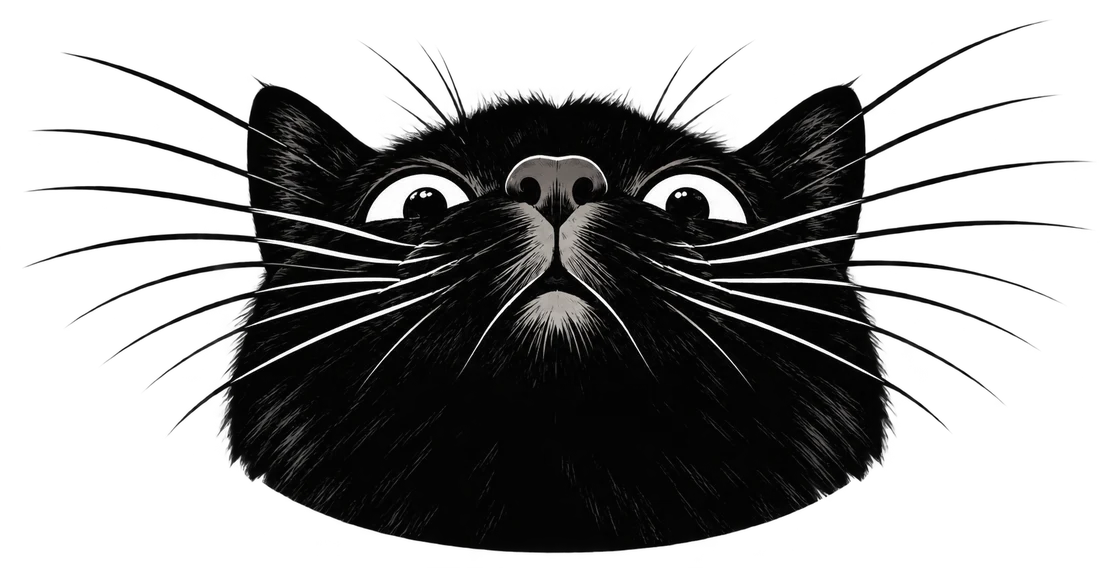
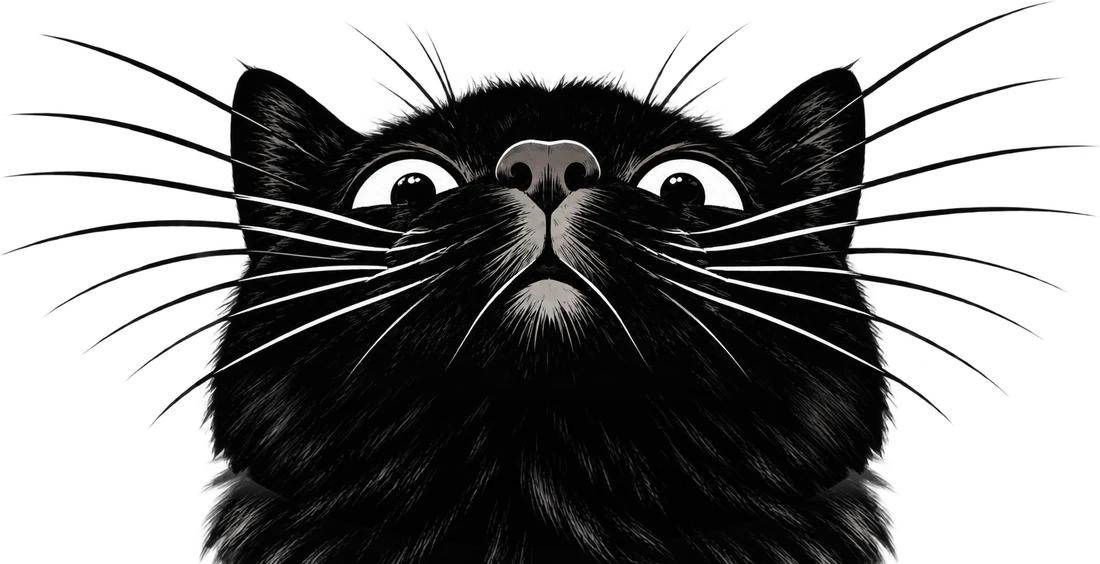
Hero: set the old sun fully before the new one rises; new black cat; no cat overshoot

diff --git a/src/components/site/HeroArt.tsx b/src/components/site/HeroArt.tsx
@@ -7,17 +7,18 @@ const SUN_COLORS = ["#efc766", "#e39a46", "#cf6437", "#c82424", "#f5dcd5", "#f8f
 const CATS = ["black", "blue", "calico", "ginger", "mackerel", "point", "tortie", "tuxedo"];
 
 const HOLD_MS = 4500; // the sun rests at its peak
-const SWING_MS = 2400; // setting / rising along the arc
-const RISE_DELAY_MS = 1100; // the new sun follows a moment after the old one starts to set
+const SET_MS = 1800; // the old sun leaves along the arc...
+const RISE_MS = 2200; // ...and only then the new one rises
 const CAT_DOWN_MS = 650;
 const CAT_UP_MS = 1100;
 const SUNS_PER_CAT = 3;
 
 // Setting accelerates away; rising decelerates and settles with a slight overshoot.
+// The cat never overshoots upwards: that would lift its cropped bottom edge into view.
 const EASE_SET = "cubic-bezier(0.55, 0, 0.8, 0.35)";
 const EASE_RISE = "cubic-bezier(0.18, 0.9, 0.3, 1.08)";
 const EASE_DUCK = "cubic-bezier(0.6, 0, 0.9, 0.4)";
-const EASE_POP = "cubic-bezier(0.2, 1, 0.35, 1.12)";
+const EASE_POP = "cubic-bezier(0.16, 1, 0.3, 1)";
 
 const arm = (deg: number) => ({ transform: `translateX(-50%) rotate(${deg}deg)` });
 const catAt = (y: string) => ({ transform: `translateX(-8%) translateY(${y})` });
@@ -71,10 +72,11 @@ export function HeroArt() {
       active = 1 - active;
       count += 1;
       const moves: Promise<void>[] = [
-        run(out, [arm(0), arm(75)], { duration: SWING_MS, easing: EASE_SET }).then(() => {
+        (async () => {
+          await run(out, [arm(0), arm(75)], { duration: SET_MS, easing: EASE_SET });
           out.style.transform = arm(-75).transform;
-        }),
-        run(next, [arm(-75), arm(0)], { duration: SWING_MS, delay: RISE_DELAY_MS, easing: EASE_RISE }),
+          await run(next, [arm(-75), arm(0)], { duration: RISE_MS, easing: EASE_RISE });
+        })(),
       ];
       if (count % SUNS_PER_CAT === 0) {
         moves.push(
